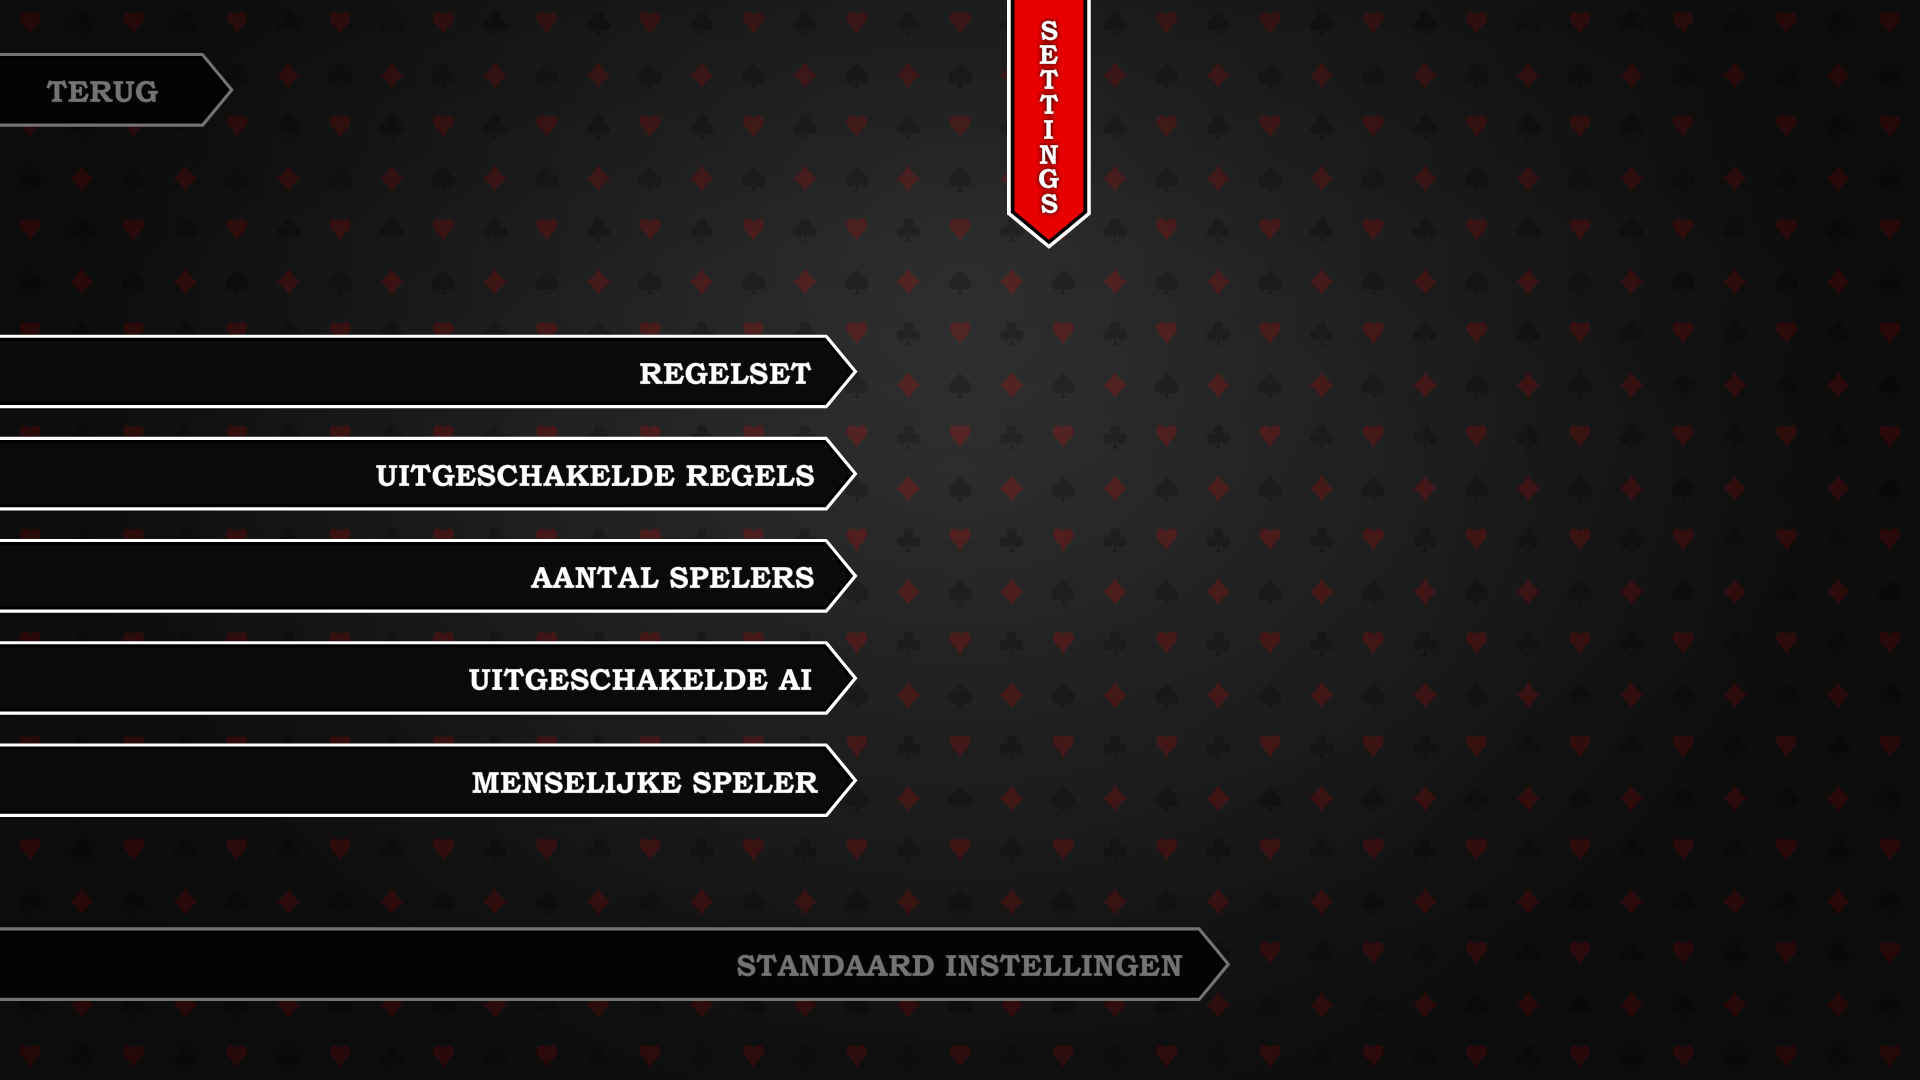
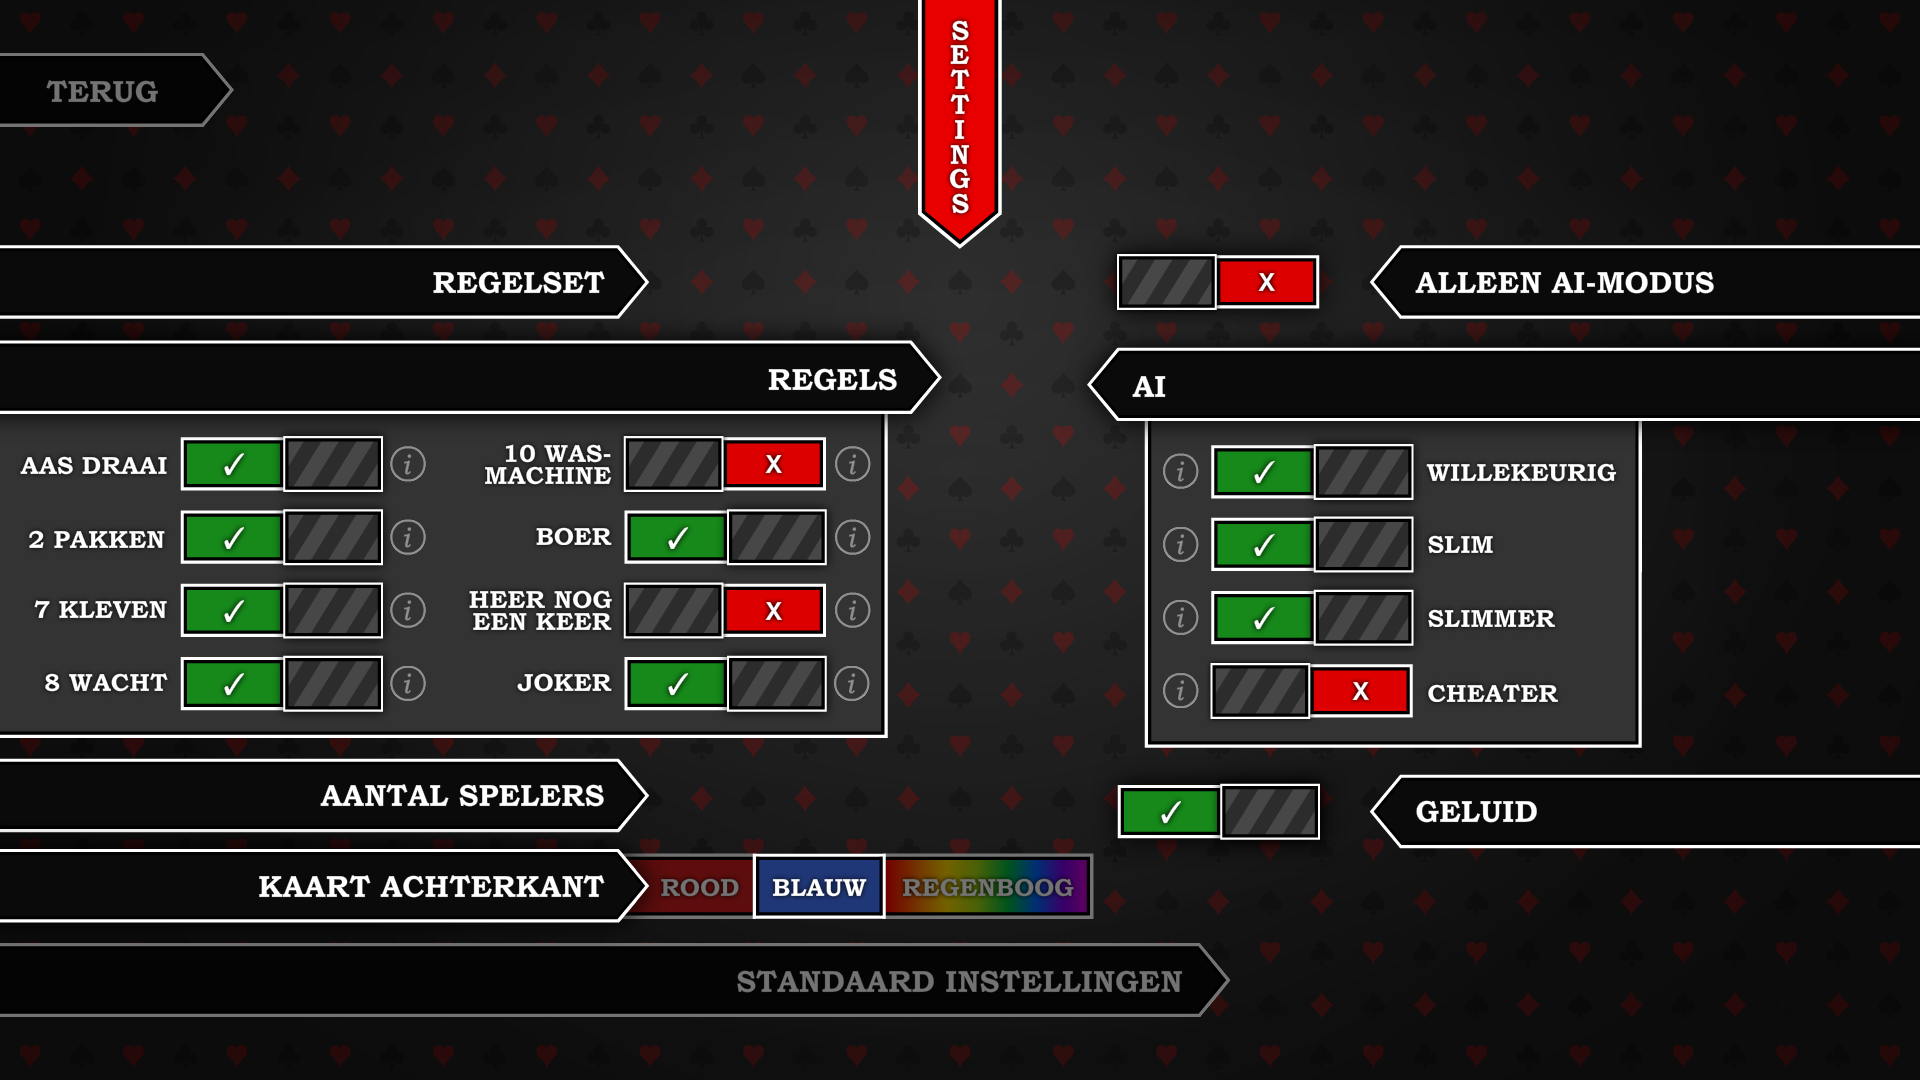
Settings design geimplementeerd
Het design is er, nu nog zorgen dat de knoppen doen wat ze moeten doen

Changed region(s): [[0.0, 0.2139, 1.0, 0.9472], [0.4688, 0.0, 0.5938, 0.2444]]

diff --git a/Instellingenscherm.cs b/Instellingenscherm.cs
@@ -15,10 +15,16 @@ namespace CyberPesten
         TextBox regelsIngeschakeldCon, AIIngeschakeldCon;
         Button mensSpelendCon;
         Menu menu;
-        Bitmap terugBitmap, standSetBitmap, achtergrond;
+        Bitmap terugBitmap, standSetBitmap, achtergrond, switches, roodKnop, regenboogKnop;
         bool terugHover, standSetHover;
         Rectangle terugButton, standSetButton, maat;
+        Rectangle aasDraai, tweePakken, zevenKleven, achtWacht, tienWasmachine, boerSwitch, heerNogEenKeer, jokerSwitch;
+        Rectangle willekeurigSwitch, slimSwitch, slimmerSwitch, cheaterSwitch, aiModus, geluidSwitch, rood, blauw, regenboog;
+        bool aasDraaiBool, tweePakkenBool, zevenKlevenBool, achtWachtBool, tienWasmachineBool, boerSwitchBool, heerNogEenKeerBool, jokerSwitchBool;
+        bool willekeurigSwitchBool, slimSwitchBool, slimmerSwitchBool, cheaterSwitchBool, aiModusBool, geluidSwitchBool;
         float verhouding;
+        GraphicsUnit units = GraphicsUnit.Pixel;
+        int achterkantKleur = 2;
 
         public Instellingenscherm(Menu _menu)
         {
@@ -36,6 +42,7 @@ namespace CyberPesten
             Graphics.FromImage(achtergrond).DrawImage((Bitmap)CyberPesten.Properties.Resources.ResourceManager.GetObject("Settings_achtergrond"), maat);
             BackgroundImage = achtergrond;
 
+            
             /*Label regelsetLab = new Label();
             regelsetLab.Text = "Regelset";
             regelsetLab.BackColor = Color.Transparent;
@@ -45,7 +52,7 @@ namespace CyberPesten
 
             regelsetCon = new NumericUpDown();
             regelsetCon.Value = instellingen.regelset;
-            regelsetCon.Location = new Point(220, 50);
+            regelsetCon.Location = new Point(9220, 50);
             Controls.Add(regelsetCon);
 
             /*Label regelsIngeschakeldLab = new Label();
@@ -56,7 +63,7 @@ namespace CyberPesten
             Controls.Add(regelsIngeschakeldLab);*/
 
             regelsIngeschakeldCon = new TextBox();
-            regelsIngeschakeldCon.Location = new Point(220, 150);
+            regelsIngeschakeldCon.Location = new Point(9220, 150);
             Controls.Add(regelsIngeschakeldCon);
 
             /*Label aantalSpelersLab = new Label();
@@ -67,7 +74,7 @@ namespace CyberPesten
             Controls.Add(aantalSpelersLab);*/
 
             aantalSpelersCon = new NumericUpDown();
-            aantalSpelersCon.Location = new Point(220, 250);
+            aantalSpelersCon.Location = new Point(9220, 250);
             aantalSpelersCon.DecimalPlaces = 0;
             aantalSpelersCon.ValueChanged += aantalSpelers;
             Controls.Add(aantalSpelersCon);
@@ -80,7 +87,7 @@ namespace CyberPesten
             Controls.Add(AIIngeschakeldLab);*/
 
             AIIngeschakeldCon = new TextBox();
-            AIIngeschakeldCon.Location = new Point(220, 350);
+            AIIngeschakeldCon.Location = new Point(9220, 350);
             AIIngeschakeldCon.TextChanged += AIIngeschakeld;
             Controls.Add(AIIngeschakeldCon);
 
@@ -92,7 +99,7 @@ namespace CyberPesten
             Controls.Add(mensSpelendLab);*/
 
             mensSpelendCon = new Button();
-            mensSpelendCon.Location = new Point(220, 450);
+            mensSpelendCon.Location = new Point(9220, 450);
             mensSpelendCon.Click += mensSpelend;
             Controls.Add(mensSpelendCon);
 
@@ -110,16 +117,54 @@ namespace CyberPesten
             terugCon.Click += terug;
             Controls.Add(terugCon);*/
 
+
             update();
             this.Show();
 
             terugBitmap = new Bitmap((Image)CyberPesten.Properties.Resources.ResourceManager.GetObject("Terug_button"));
             standSetBitmap = new Bitmap((Image)CyberPesten.Properties.Resources.ResourceManager.GetObject("StandSet_button"));
+            switches = new Bitmap((Image)CyberPesten.Properties.Resources.ResourceManager.GetObject("Settings_switches"));
+            roodKnop = new Bitmap((Image)CyberPesten.Properties.Resources.ResourceManager.GetObject("Achterkant_rood"));
+            regenboogKnop = new Bitmap((Image)CyberPesten.Properties.Resources.ResourceManager.GetObject("Achterkant_regenboog"));
 
             verhouding = System.Windows.Forms.Screen.PrimaryScreen.Bounds.Width / terugBitmap.Width;
 
             terugButton = new Rectangle(0, (int)(verhouding * 53), (int)(verhouding * 234), (int)(verhouding * 74));
             standSetButton = new Rectangle(0, (int)(verhouding * 927), (int)(verhouding * 1230), (int)(verhouding * 74));
+
+            int switchWidth = (int)(verhouding * 211);
+            int switchHeight = (int)(verhouding * 65);
+            int swithKolom1 = (int)(verhouding* 176);
+            int swithKolom2 = (int)(verhouding* 620);
+            int swithKolom3 = (int)(verhouding* 1206);
+            int swithKolom4 = (int)(verhouding* 1113);
+
+            //Switches
+            aasDraai = new Rectangle(swithKolom1, (int)(verhouding * 431), switchWidth, switchHeight);
+            tweePakken = new Rectangle(swithKolom1, (int)(verhouding * 505), switchWidth, switchHeight);
+            zevenKleven = new Rectangle(swithKolom1, (int)(verhouding * 578), switchWidth, switchHeight);
+            achtWacht = new Rectangle(swithKolom1, (int)(verhouding * 651), switchWidth, switchHeight);
+            tienWasmachine = new Rectangle(swithKolom2, (int)(verhouding * 431), switchWidth, switchHeight);
+            boerSwitch = new Rectangle(swithKolom2, (int)(verhouding * 505), switchWidth, switchHeight);
+            heerNogEenKeer = new Rectangle(swithKolom2, (int)(verhouding * 578), switchWidth, switchHeight);
+            jokerSwitch = new Rectangle(swithKolom2, (int)(verhouding * 651), switchWidth, switchHeight);
+            willekeurigSwitch = new Rectangle(swithKolom3, (int)(verhouding * 439), switchWidth, switchHeight);
+            slimSwitch = new Rectangle(swithKolom3, (int)(verhouding * 512), switchWidth, switchHeight);
+            slimmerSwitch = new Rectangle(swithKolom3, (int)(verhouding * 585), switchWidth, switchHeight);
+            cheaterSwitch = new Rectangle(swithKolom3, (int)(verhouding * 658), switchWidth, switchHeight);
+            aiModus = new Rectangle(swithKolom4, (int)(verhouding * 249), switchWidth, switchHeight);
+            geluidSwitch = new Rectangle(swithKolom4, (int)(verhouding * 779), switchWidth, switchHeight);
+
+            rood = new Rectangle((int)(verhouding * 624), (int)(verhouding * 853), (int)(verhouding * 155), (int)(verhouding * 65));
+            blauw = new Rectangle((int)(verhouding * 779), (int)(verhouding * 853), (int)(verhouding * 105), (int)(verhouding * 65));
+            regenboog = new Rectangle((int)(verhouding * 884), (int)(verhouding * 853), (int)(verhouding * 209), (int)(verhouding * 65));
+
+            //Switch booleans
+            aasDraaiBool = true; tweePakkenBool = true; zevenKlevenBool = true; achtWachtBool = true;
+            tienWasmachineBool = false; boerSwitchBool = true; heerNogEenKeerBool = false; jokerSwitchBool = true;
+            willekeurigSwitchBool = true; slimSwitchBool = true; slimmerSwitchBool= true; cheaterSwitchBool = false;
+            aiModusBool = false; geluidSwitchBool = true;
+
 
             this.Paint += this.buildAchtergrond;
             this.Paint += this.selected;
@@ -231,6 +276,74 @@ namespace CyberPesten
                 pea.Graphics.DrawImage(standSetBitmap, maat);
             }
 
+            if (aasDraaiBool == false)
+            {
+                pea.Graphics.DrawImage(switches, aasDraai, aasDraai, units);
+            }
+            if (tweePakkenBool == false)
+            {
+                pea.Graphics.DrawImage(switches, tweePakken, tweePakken, units);
+            }
+            if (zevenKlevenBool == false)
+            {
+                pea.Graphics.DrawImage(switches, zevenKleven, zevenKleven, units);
+            }
+            if (achtWachtBool == false)
+            {
+                pea.Graphics.DrawImage(switches, achtWacht, achtWacht, units);
+            }
+            if (tienWasmachineBool == true)
+            {
+                pea.Graphics.DrawImage(switches, tienWasmachine, tienWasmachine, units);
+            }
+            if (boerSwitchBool == false)
+            {
+                pea.Graphics.DrawImage(switches, boerSwitch, boerSwitch, units);
+            }
+            if (heerNogEenKeerBool == true)
+            {
+                pea.Graphics.DrawImage(switches, heerNogEenKeer, heerNogEenKeer, units);
+            }
+            if (jokerSwitchBool == false)
+            {
+                pea.Graphics.DrawImage(switches, jokerSwitch, jokerSwitch, units);
+            }
+
+            if (willekeurigSwitchBool == false)
+            {
+                pea.Graphics.DrawImage(switches, willekeurigSwitch, willekeurigSwitch, units);
+            }
+            if (slimSwitchBool == false)
+            {
+                pea.Graphics.DrawImage(switches, slimSwitch, slimSwitch, units);
+            }
+            if (slimmerSwitchBool == false)
+            {
+                pea.Graphics.DrawImage(switches, slimmerSwitch, slimmerSwitch, units);
+            }
+            if (cheaterSwitchBool == true)
+            {
+                pea.Graphics.DrawImage(switches, cheaterSwitch, cheaterSwitch, units);
+            }
+
+            if (aiModusBool == false)
+            {
+                pea.Graphics.DrawImage(switches, aiModus, aiModus, units);
+            }
+            if (geluidSwitchBool == false)
+            {
+                pea.Graphics.DrawImage(switches, geluidSwitch, geluidSwitch, units);
+            }
+
+            if (achterkantKleur == 1)
+            {
+                pea.Graphics.DrawImage(roodKnop, maat);
+            }
+            if (achterkantKleur == 3)
+            {
+                pea.Graphics.DrawImage(regenboogKnop, maat);
+            }
+
             Invalidate();
         }
 
@@ -269,6 +382,80 @@ namespace CyberPesten
                 instellingen.standaard();
                 update();
                 instellingen.schrijven();
+            }
+
+            //Switches
+            if (aasDraai.Contains(mea.Location))
+            {
+                aasDraaiBool = !aasDraaiBool;
+            }
+            if (tweePakken.Contains(mea.Location))
+            {
+                tweePakkenBool = !tweePakkenBool;
+            }
+            if (zevenKleven.Contains(mea.Location))
+            {
+                zevenKlevenBool = !zevenKlevenBool;
+            }
+            if (achtWacht.Contains(mea.Location))
+            {
+                achtWachtBool = !achtWachtBool;
+            }
+            if (tienWasmachine.Contains(mea.Location))
+            {
+                tienWasmachineBool = !tienWasmachineBool;
+            }
+            if (boerSwitch.Contains(mea.Location))
+            {
+                boerSwitchBool = !boerSwitchBool;
+            }
+            if (heerNogEenKeer.Contains(mea.Location))
+            {
+                heerNogEenKeerBool = !heerNogEenKeerBool;
+            }
+            if (jokerSwitch.Contains(mea.Location))
+            {
+                jokerSwitchBool = !jokerSwitchBool;
+            }
+
+            if (willekeurigSwitch.Contains(mea.Location))
+            {
+                willekeurigSwitchBool = !willekeurigSwitchBool;
+            } 
+            if (slimSwitch.Contains(mea.Location))
+            {
+                slimSwitchBool = !slimSwitchBool;
+            }
+            if (slimmerSwitch.Contains(mea.Location))
+            {
+                slimmerSwitchBool = !slimmerSwitchBool;
+            }
+            if (cheaterSwitch.Contains(mea.Location))
+            {
+                cheaterSwitchBool = !cheaterSwitchBool;
+            }
+
+            if (aiModus.Contains(mea.Location))
+            {
+                aiModusBool = !aiModusBool;
+            }
+            if (geluidSwitch.Contains(mea.Location))
+            {
+                geluidSwitchBool = !geluidSwitchBool;
+            }
+
+            //Kaart achterkant kleur
+            if (rood.Contains(mea.Location))
+            {
+                achterkantKleur = 1;
+            }
+            if (blauw.Contains(mea.Location))
+            {
+                achterkantKleur = 2;
+            }
+            if (regenboog.Contains(mea.Location))
+            {
+                achterkantKleur = 3;
             }
         }
     }

diff --git a/Properties/Resources.Designer.cs b/Properties/Resources.Designer.cs
@@ -73,6 +73,26 @@ namespace CyberPesten.Properties {
         /// <summary>
         ///   Looks up a localized resource of type System.Drawing.Bitmap.
         /// </summary>
+        internal static System.Drawing.Bitmap Achterkant_regenboog {
+            get {
+                object obj = ResourceManager.GetObject("Achterkant_regenboog", resourceCulture);
+                return ((System.Drawing.Bitmap)(obj));
+            }
+        }
+        
+        /// <summary>
+        ///   Looks up a localized resource of type System.Drawing.Bitmap.
+        /// </summary>
+        internal static System.Drawing.Bitmap Achterkant_rood {
+            get {
+                object obj = ResourceManager.GetObject("Achterkant_rood", resourceCulture);
+                return ((System.Drawing.Bitmap)(obj));
+            }
+        }
+        
+        /// <summary>
+        ///   Looks up a localized resource of type System.Drawing.Bitmap.
+        /// </summary>
         internal static System.Drawing.Bitmap Back_design_1 {
             get {
                 object obj = ResourceManager.GetObject("Back_design_1", resourceCulture);
@@ -86,6 +106,16 @@ namespace CyberPesten.Properties {
         internal static System.Drawing.Bitmap Back_design_2 {
             get {
                 object obj = ResourceManager.GetObject("Back_design_2", resourceCulture);
+                return ((System.Drawing.Bitmap)(obj));
+            }
+        }
+        
+        /// <summary>
+        ///   Looks up a localized resource of type System.Drawing.Bitmap.
+        /// </summary>
+        internal static System.Drawing.Bitmap Back_design_3 {
+            get {
+                object obj = ResourceManager.GetObject("Back_design_3", resourceCulture);
                 return ((System.Drawing.Bitmap)(obj));
             }
         }
@@ -806,6 +836,16 @@ namespace CyberPesten.Properties {
         internal static System.Drawing.Bitmap Settings_button {
             get {
                 object obj = ResourceManager.GetObject("Settings_button", resourceCulture);
+                return ((System.Drawing.Bitmap)(obj));
+            }
+        }
+        
+        /// <summary>
+        ///   Looks up a localized resource of type System.Drawing.Bitmap.
+        /// </summary>
+        internal static System.Drawing.Bitmap Settings_switches {
+            get {
+                object obj = ResourceManager.GetObject("Settings_switches", resourceCulture);
                 return ((System.Drawing.Bitmap)(obj));
             }
         }
